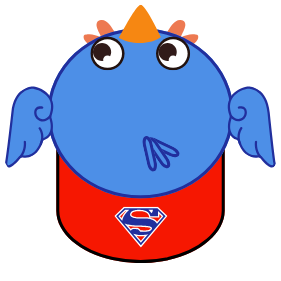
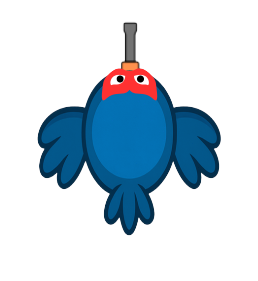
added all 3 characters with attack animations and level 2 spirtes, added bullet projectile

diff --git a/src/main.c b/src/main.c
@@ -90,6 +90,15 @@ int main(int argc, char **argv) {
         cleanup(window, renderer, NULL);
         return 1;
     }
+
+    SDL_Texture *bulletTexture = loadImage(renderer, "resources/bullet.png");
+    if (!bulletTexture) {
+        SDL_DestroyTexture(mapTexture);
+        TTF_CloseFont(font);
+        TTF_Quit();
+        cleanup(window, renderer, NULL);
+        return 1;
+    }
     
     // Ladda fiende-texturer
     SDL_Texture *enemyTextures[3];
@@ -103,6 +112,7 @@ int main(int argc, char **argv) {
             }
             SDL_DestroyTexture(mapTexture);
             SDL_DestroyTexture(dartTexture);
+            SDL_DestroyTexture(bulletTexture);
             TTF_CloseFont(font);
             TTF_Quit();
             cleanup(window, renderer, NULL);
@@ -117,6 +127,7 @@ int main(int argc, char **argv) {
     if (!superbird1Texture || !batbird1Texture || !brownbird1Texture) {
         SDL_DestroyTexture(mapTexture);
         SDL_DestroyTexture(dartTexture);
+        SDL_DestroyTexture(bulletTexture);
         TTF_CloseFont(font);
         TTF_Quit();
         cleanup(window, renderer, NULL);
@@ -130,6 +141,7 @@ int main(int argc, char **argv) {
     if (!superbird1icon || !batbird1icon || !brownbird1icon) {
         SDL_DestroyTexture(mapTexture);
         SDL_DestroyTexture(dartTexture);
+        SDL_DestroyTexture(bulletTexture);
         SDL_DestroyTexture(superbird1Texture);
         SDL_DestroyTexture(batbird1Texture);
         SDL_DestroyTexture(brownbird1Texture);
@@ -142,10 +154,10 @@ int main(int argc, char **argv) {
     // Skapa tre Bird-prototyper (tornsalternativ) med attack-animationer
     Bird superbird1;
     superbird1.damage = 1;
-    superbird1.range = WINDOW_WIDTH * 0.2f;
-    superbird1.attackSpeed = 0.7f;
+    superbird1.range = WINDOW_WIDTH * 0.1f;
+    superbird1.attackSpeed = 6.0f;
     superbird1.cost = 200;
-    superbird1.projectileTexture = dartTexture;
+    superbird1.projectileTexture = bulletTexture;
     superbird1.texture = superbird1Texture;
     superbird1.baseTexture = superbird1Texture;
     superbird1.attackTexture = loadImage(renderer, "resources/superbird1attack.png");
@@ -291,7 +303,7 @@ int main(int argc, char **argv) {
         
         updateEnemies(enemies, &numEnemiesActive, dt, pathPointsLeft, pathPointsRight, numPoints, enemyTextures, &leftPlayerHP, &rightPlayerHP);
         updateProjectiles(projectiles, &numProjectiles, dt);
-        updateBirds(placedBirds, numPlacedBirds, enemies, numEnemiesActive, projectiles, &numProjectiles, dt, dartTexture, enemyTextures);
+        updateBirds(placedBirds, numPlacedBirds, enemies, numEnemiesActive, projectiles, &numProjectiles, dt, enemyTextures);
         calculateBirdRotations(placedBirds, numPlacedBirds, enemies, numEnemiesActive, birdRotations);
         
         SDL_SetRenderDrawColor(renderer, 0, 255, 255, 255);
@@ -345,6 +357,7 @@ int main(int argc, char **argv) {
     
     SDL_DestroyTexture(mapTexture);
     SDL_DestroyTexture(dartTexture);
+    SDL_DestroyTexture(bulletTexture);
     SDL_DestroyTexture(superbird1Texture);
     SDL_DestroyTexture(batbird1Texture);
     SDL_DestroyTexture(brownbird1Texture);

diff --git a/src/gameLogic.c b/src/gameLogic.c
@@ -88,10 +88,8 @@ void updateProjectiles(Projectile projectiles[], int *numProjectiles, float dt) 
     }
 }
 
-void updateBirds(Bird placedBirds[], int numPlacedBirds, Enemy enemies[], int numEnemiesActive, 
-    Projectile projectiles[], int *numProjectiles, float dt, 
-    SDL_Texture *dartTexture, SDL_Texture *enemyTextures[]) {
-    
+void updateBirds(Bird placedBirds[], int numPlacedBirds, Enemy enemies[], int numEnemiesActive, Projectile projectiles[], int *numProjectiles, float dt, SDL_Texture *enemyTextures[]){
+
     for (int i = 0; i < numPlacedBirds; i++) {
         // Uppdatera attack-animationen: om timern är aktiv, minska den och återställ texturen om tiden tagit slut.
         if (placedBirds[i].attackAnimTimer > 0) {
@@ -126,7 +124,6 @@ void updateBirds(Bird placedBirds[], int numPlacedBirds, Enemy enemies[], int nu
         
         if (target != NULL && placedBirds[i].attackTimer >= (1.0f / placedBirds[i].attackSpeed)) {
             placedBirds[i].attackTimer = 0.0f;
-            // Sätt attack-animation: byt till attack-textur och sätt en kort timer (t.ex. 0.2 sekunder)
             placedBirds[i].attackAnimTimer = 0.2f;
             placedBirds[i].texture = placedBirds[i].attackTexture;
             
@@ -139,7 +136,8 @@ void updateBirds(Bird placedBirds[], int numPlacedBirds, Enemy enemies[], int nu
                 newProj.x = newProj.startX;
                 newProj.y = newProj.startY;
                 newProj.speed = PROJECTILE_SPEED;
-                newProj.texture = dartTexture;
+                // Använd fågelns egna projectileTexture istället för dartTexture
+                newProj.texture = placedBirds[i].projectileTexture;
                 newProj.active = true;
                 float dx = target->x - placedBirds[i].x;
                 float dy = target->y - placedBirds[i].y;
@@ -155,6 +153,7 @@ void updateBirds(Bird placedBirds[], int numPlacedBirds, Enemy enemies[], int nu
                 }
                 projectiles[(*numProjectiles)++] = newProj;
             }
+
             
             target->hp -= placedBirds[i].damage;
             if (target->hp <= 0) {

diff --git a/src/engine.h b/src/engine.h
@@ -80,8 +80,7 @@ void updateEnemies(Enemy enemies[], int *numEnemiesActive, float dt,
     SDL_Texture *enemyTextures[], int *leftPlayerHP, int *rightPlayerHP);
 void updateProjectiles(Projectile projectiles[], int *numProjectiles, float dt);
 void updateBirds(Bird placedBirds[], int numPlacedBirds, Enemy enemies[], int numEnemiesActive, 
-                 Projectile projectiles[], int *numProjectiles, float dt, 
-                 SDL_Texture *dartTexture, SDL_Texture *enemyTextures[]);
+                 Projectile projectiles[], int *numProjectiles, float dt, SDL_Texture *enemyTextures[]);
 void calculateBirdRotations(Bird placedBirds[], int numPlacedBirds, Enemy enemies[], int numEnemiesActive, float birdRotations[]);
 
 // -------------------------

diff --git a/src/render.c b/src/render.c
@@ -23,6 +23,8 @@ void renderProjectiles(SDL_Renderer *renderer, Projectile projectiles[], int num
     for (int i = 0; i < numProjectiles; i++) {
         SDL_Rect dRect;
         SDL_QueryTexture(projectiles[i].texture, NULL, NULL, &dRect.w, &dRect.h);
+
+        
         dRect.x = (int)(projectiles[i].x - dRect.w / 2);
         dRect.y = (int)(projectiles[i].y - dRect.h / 2);
         SDL_Point dPivot = { dRect.w / 2, dRect.h / 2 };
